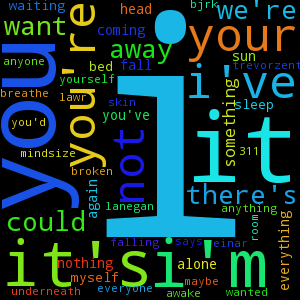
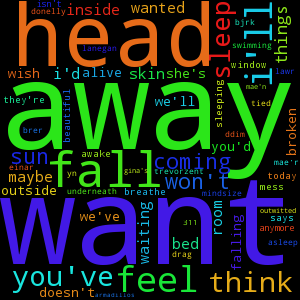
added vocabulary ratio by genre and year

diff --git a/SpidersConfiguration/shironet_config.py b/SpidersConfiguration/shironet_config.py
@@ -2,47 +2,47 @@ from Model.artist_url import artist_url
 
 class shironet_config:
     SHIRONET_BASE_URL = "http://shironet.mako.co.il"
-    SHIRONET_AGENT = {'User-Agent': 'Mozilla/5.0 (X11; Linux x86_64) AppleWebKit/537.36 (KHTML, like Gecko) Chrome/56.0.2924.87 Safari/537.36'}
[1 lines of base64/hex data omitted]
+    SHIRONET_AGENT = {'User-Agent': 'Mozilla/5.0 (Macintosh; Intel Mac OS X 10_12_3) AppleWebKit/537.36 (KHTML, like Gecko) Chrome/56.0.2924.87 Safari/537.36'}
[1 lines of base64/hex data omitted]
 
     ARTIST_PAGE_PREFIX = "http://shironet.mako.co.il/artist?type=works&lang=1&prfid="
     ARTISTS_URLS = [
-        # artist_url("Idan Raichel",  ARTIST_PAGE_PREFIX + '1428'),
-        # artist_url("Eviatar Banai", ARTIST_PAGE_PREFIX + '41'),
-        # artist_url("Moshe Peretz", ARTIST_PAGE_PREFIX + '3787'),
-        # artist_url("Dudu Aharon", ARTIST_PAGE_PREFIX + '4592'),
-        # artist_url("Kobi Peretz", ARTIST_PAGE_PREFIX + '1202'),
-        # artist_url("Meir Ariel", ARTIST_PAGE_PREFIX + '605'),
-        # artist_url("Hadag Nahash", ARTIST_PAGE_PREFIX + '333'),
-        # artist_url("Lior Narkis", ARTIST_PAGE_PREFIX + '594'),
-        # artist_url("Mooki", ARTIST_PAGE_PREFIX + '620'),
-        # artist_url("Peer Tasi", ARTIST_PAGE_PREFIX + '7747'),
-        # artist_url("Eyal Golan", ARTIST_PAGE_PREFIX + '92'),
-        # artist_url("Omer Adam", ARTIST_PAGE_PREFIX + '10755'),
-        # artist_url("Regev Hod", ARTIST_PAGE_PREFIX + '2570'),
-        # artist_url("Sarit Hadad", ARTIST_PAGE_PREFIX + '1015'),
-        # artist_url("Shlomo Artzi", ARTIST_PAGE_PREFIX + '975'),
-        # artist_url("Shalom Hanoch", ARTIST_PAGE_PREFIX + '960'),
-        # artist_url("Arik Einstein", ARTIST_PAGE_PREFIX + '166'),
-        # artist_url("Rita", ARTIST_PAGE_PREFIX + '905'),
-        # artist_url("Miri Mesika", ARTIST_PAGE_PREFIX + '4226'),
-        # artist_url("Keren Peles", ARTIST_PAGE_PREFIX + '4314'),
-        # artist_url("Assaf Amdursky", ARTIST_PAGE_PREFIX + '150'),
-        # artist_url("Avraham Tal", ARTIST_PAGE_PREFIX + '7335'),
-        # artist_url("Mashina", ARTIST_PAGE_PREFIX + '686'),
-        # artist_url("Yehoram Gaon", ARTIST_PAGE_PREFIX + '465'),
-        # artist_url("Yishi Levi", ARTIST_PAGE_PREFIX + '559'),
-        # artist_url("Avi Biter", ARTIST_PAGE_PREFIX + '1145'),
-        # artist_url("Shlomi Shabat", ARTIST_PAGE_PREFIX + '966'),
-        # artist_url("Zehava Ben", ARTIST_PAGE_PREFIX + '372'),
-        # artist_url("Zohar Argov", ARTIST_PAGE_PREFIX + '373'),
-        # artist_url("Lior Farhi", ARTIST_PAGE_PREFIX + '596'),
-        # artist_url("Shimi Tavori", ARTIST_PAGE_PREFIX + '955'),
-        # artist_url("Ofer Levi", ARTIST_PAGE_PREFIX + '783'),
-        # artist_url("Moshik Afia", ARTIST_PAGE_PREFIX + '623'),
-        # artist_url("Idan Yaniv", ARTIST_PAGE_PREFIX + '4858'),
-        # artist_url("Margalit Tzanani", ARTIST_PAGE_PREFIX + '666'),
-        # artist_url("Boaz Sharabi", ARTIST_PAGE_PREFIX + '183'),
+        artist_url("Idan Raichel",  ARTIST_PAGE_PREFIX + '1428'),
+        artist_url("Eviatar Banai", ARTIST_PAGE_PREFIX + '41'),
+        artist_url("Moshe Peretz", ARTIST_PAGE_PREFIX + '3787'),
+        artist_url("Dudu Aharon", ARTIST_PAGE_PREFIX + '4592'),
+        artist_url("Kobi Peretz", ARTIST_PAGE_PREFIX + '1202'),
+        artist_url("Meir Ariel", ARTIST_PAGE_PREFIX + '605'),
+        artist_url("Hadag Nahash", ARTIST_PAGE_PREFIX + '333'),
+        artist_url("Lior Narkis", ARTIST_PAGE_PREFIX + '594'),
+        artist_url("Mooki", ARTIST_PAGE_PREFIX + '620'),
+        artist_url("Peer Tasi", ARTIST_PAGE_PREFIX + '7747'),
+        artist_url("Eyal Golan", ARTIST_PAGE_PREFIX + '92'),
+        artist_url("Omer Adam", ARTIST_PAGE_PREFIX + '10755'),
+        artist_url("Regev Hod", ARTIST_PAGE_PREFIX + '2570'),
+        artist_url("Sarit Hadad", ARTIST_PAGE_PREFIX + '1015'),
+        artist_url("Shlomo Artzi", ARTIST_PAGE_PREFIX + '975'),
+        artist_url("Shalom Hanoch", ARTIST_PAGE_PREFIX + '960'),
+        artist_url("Arik Einstein", ARTIST_PAGE_PREFIX + '166'),
+        artist_url("Rita", ARTIST_PAGE_PREFIX + '905'),
+        artist_url("Miri Mesika", ARTIST_PAGE_PREFIX + '4226'),
+        artist_url("Keren Peles", ARTIST_PAGE_PREFIX + '4314'),
+        artist_url("Assaf Amdursky", ARTIST_PAGE_PREFIX + '150'),
+        artist_url("Avraham Tal", ARTIST_PAGE_PREFIX + '7335'),
+        artist_url("Mashina", ARTIST_PAGE_PREFIX + '686'),
+        artist_url("Yehoram Gaon", ARTIST_PAGE_PREFIX + '465'),
+        artist_url("Yishi Levi", ARTIST_PAGE_PREFIX + '559'),
+        artist_url("Avi Biter", ARTIST_PAGE_PREFIX + '1145'),
+        artist_url("Shlomi Shabat", ARTIST_PAGE_PREFIX + '966'),
+        artist_url("Zehava Ben", ARTIST_PAGE_PREFIX + '372'),
+        artist_url("Zohar Argov", ARTIST_PAGE_PREFIX + '373'),
+        artist_url("Lior Farhi", ARTIST_PAGE_PREFIX + '596'),
+        artist_url("Shimi Tavori", ARTIST_PAGE_PREFIX + '955'),
+        artist_url("Ofer Levi", ARTIST_PAGE_PREFIX + '783'),
+        artist_url("Moshik Afia", ARTIST_PAGE_PREFIX + '623'),
+        artist_url("Idan Yaniv", ARTIST_PAGE_PREFIX + '4858'),
+        artist_url("Margalit Tzanani", ARTIST_PAGE_PREFIX + '666'),
+        artist_url("Boaz Sharabi", ARTIST_PAGE_PREFIX + '183'),
         artist_url("Yehuda Poliker", ARTIST_PAGE_PREFIX + '459'),
         artist_url("Berry Sakharof", ARTIST_PAGE_PREFIX + '202'),
         artist_url("Rami Fortis", ARTIST_PAGE_PREFIX + '915'),

diff --git a/analysis/generate_vocabsize.py b/analysis/generate_vocabsize.py
@@ -1,11 +1,13 @@
 import elasticsearch
 # from pytagcloud import create_tag_image, make_tags
+from nltk.corpus import stopwords
 from wordcloud import WordCloud, STOPWORDS
 import matplotlib.pyplot as plt
 
 from analysis import ES_INDEX, ES_TYPE
+from spacy import en
 
-stopwords = set(STOPWORDS)
+stopwords = set(list(en.STOP_WORDS) + ["i'm", "it's", "you're", "don't", "i've", "there's", "we're", "that's", "ain't"])
 
 es = elasticsearch.Elasticsearch()
 get_all_genres = {
@@ -19,35 +21,39 @@ get_all_genres = {
         "genres": {
             "terms": {
                 "field": "album.genre.keyword",
-                "size": 10
+                "size": 8
             }
         }
     }
 }
 
 res = es.search(index=ES_INDEX, doc_type=ES_TYPE, body=get_all_genres)
+print("%s\t%s" % ("Genre", "Vocabulary Size"))
 for genre in res['aggregations']['genres']['buckets']:
-    cloud_per_genre = {
+    vocab_per_genre = {
         "query": {"bool": {"must": [
             {"match": {
                 "album.genre.keyword": genre['key']
             }}, {"range": {
                 "album.year": {
-                    "gte": 1960,
-                    "lte": 2017
+                    "gte": 1950,
+                    "lte": 2006
                 }
             }}
-        ]}}, "size": 0,
+        ]}}, "size": 0, "terminate_after": 1000,
         "aggs": {
-            "wordcloud": {
-                "significant_terms": {
-                    "field": "lyrics",
-                    "size": 50
+            "uniquecounts": {
+                "cardinality": {
+                    "field": "lyrics"
+                }
+            },
+            "counts": {
+                "value_count": {
+                    "field": "lyrics"
                 }
             }
         }
     }
-    wcloud = es.search(index=ES_INDEX, doc_type=ES_TYPE, body=cloud_per_genre)
-    termandcounts = [(x['key'], x['doc_count']) for x in wcloud['aggregations']['wordcloud']['buckets']]
-    cloud = WordCloud(width=600, height=600, scale=0.5, stopwords=stopwords).generate_from_frequencies(termandcounts)
-    plt.imsave('wordcloud_%s.png' % genre['key'], cloud)
+    vocabsize = es.search(index=ES_INDEX, doc_type=ES_TYPE, body=vocab_per_genre)
+    print("%s\t%s" % (
+    genre['key'], vocabsize['aggregations']['uniquecounts']['value'] / vocabsize['aggregations']['counts']['value']))

diff --git a/analysis/genrewordcloud.py b/analysis/genrewordcloud.py
@@ -1,0 +1,56 @@
+import elasticsearch
+# from pytagcloud import create_tag_image, make_tags
+from nltk.corpus import stopwords
+from wordcloud import WordCloud, STOPWORDS
+import matplotlib.pyplot as plt
+
+from analysis import ES_INDEX, ES_TYPE
+from spacy import en
+
+stopwords = set(list(en.STOP_WORDS) + ["i'm", "it's", "you're", "don't", "i've", "there's", "we're", "that's", "ain't"])
+
+es = elasticsearch.Elasticsearch()
+get_all_genres = {
+    "query": {
+        "query_string": {
+            "query": "album.genre:*"
+        }
+    },
+    "size": 0,
+    "aggs": {
+        "genres": {
+            "terms": {
+                "field": "album.genre.keyword",
+                "size": 10
+            }
+        }
+    }
+}
+
+res = es.search(index=ES_INDEX, doc_type=ES_TYPE, body=get_all_genres)
+for genre in res['aggregations']['genres']['buckets']:
+    cloud_per_genre = {
+        "query": {"bool": {"must": [
+            {"match": {
+                "album.genre.keyword": genre['key']
+            }}, {"range": {
+                "album.year": {
+                    "gte": 1950,
+                    "lte": 2017
+                }
+            }}
+        ]}}, "size": 0,
+        "aggs": {
+            "wordcloud": {
+                "significant_terms": {
+                    "field": "lyrics",
+                    "size": 100
+                }
+            }
+        }
+    }
+    wcloud = es.search(index=ES_INDEX, doc_type=ES_TYPE, body=cloud_per_genre)
+    termandcounts = [(x['key'], x['doc_count']) for x in wcloud['aggregations']['wordcloud']['buckets'] if
+                     x['key'].lower() not in stopwords]
+    cloud = WordCloud(width=600, height=600, scale=0.5, stopwords=stopwords).generate_from_frequencies(termandcounts)
+    plt.imsave('analysis/wordcloud/wordcloud_%s.png' % genre['key'], cloud)

diff --git a/analysis/generate_vocabsize_per_year.py b/analysis/generate_vocabsize_per_year.py
@@ -1,0 +1,57 @@
+import elasticsearch
+# from pytagcloud import create_tag_image, make_tags
+from nltk.corpus import stopwords
+from wordcloud import WordCloud, STOPWORDS
+import matplotlib.pyplot as plt
+
+from analysis import ES_INDEX, ES_TYPE
+from spacy import en
+
+stopwords = set(list(en.STOP_WORDS) + ["i'm", "it's", "you're", "don't", "i've", "there's", "we're", "that's", "ain't"])
+
+es = elasticsearch.Elasticsearch()
+get_all_genres = {
+    "query": {
+        "query_string": {
+            "query": "album.genre:*"
+        }
+    },
+    "size": 0,
+    "aggs": {
+        "genres": {
+            "terms": {
+                "field": "album.genre.keyword",
+                "size": 8
+            }
+        }
+    }
+}
+
+res = es.search(index=ES_INDEX, doc_type=ES_TYPE, body=get_all_genres)
+print("%s\t%s" % ("Genre", "Vocabulary Size"))
+for y in range(1985, 2005, 1):
+    vocab_per_genre = {
+        "query": {"bool": {"must": [
+            {"range": {
+                "album.year": {
+                    "gte": y,
+                    "lte": y + 1
+                }
+            }}
+        ]}}, "size": 0, "terminate_after": 500,
+        "aggs": {
+            "uniquecounts": {
+                "cardinality": {
+                    "field": "lyrics"
+                }
+            },
+            "counts": {
+                "value_count": {
+                    "field": "lyrics"
+                }
+            }
+        }
+    }
+    vocabsize = es.search(index=ES_INDEX, doc_type=ES_TYPE, body=vocab_per_genre)
+    print("%s\t%s" % (
+        y, vocabsize['aggregations']['uniquecounts']['value'] / vocabsize['aggregations']['counts']['value']))

diff --git a/spiders/shironet_spider.py b/spiders/shironet_spider.py
@@ -82,6 +82,7 @@ class ShironetSpider(scrapy.Spider):
 
             song = {
                 "title": song_name,
+                "source": "shironet",
                 "album": {
                     "title": album_name,
                     "year": album_year
